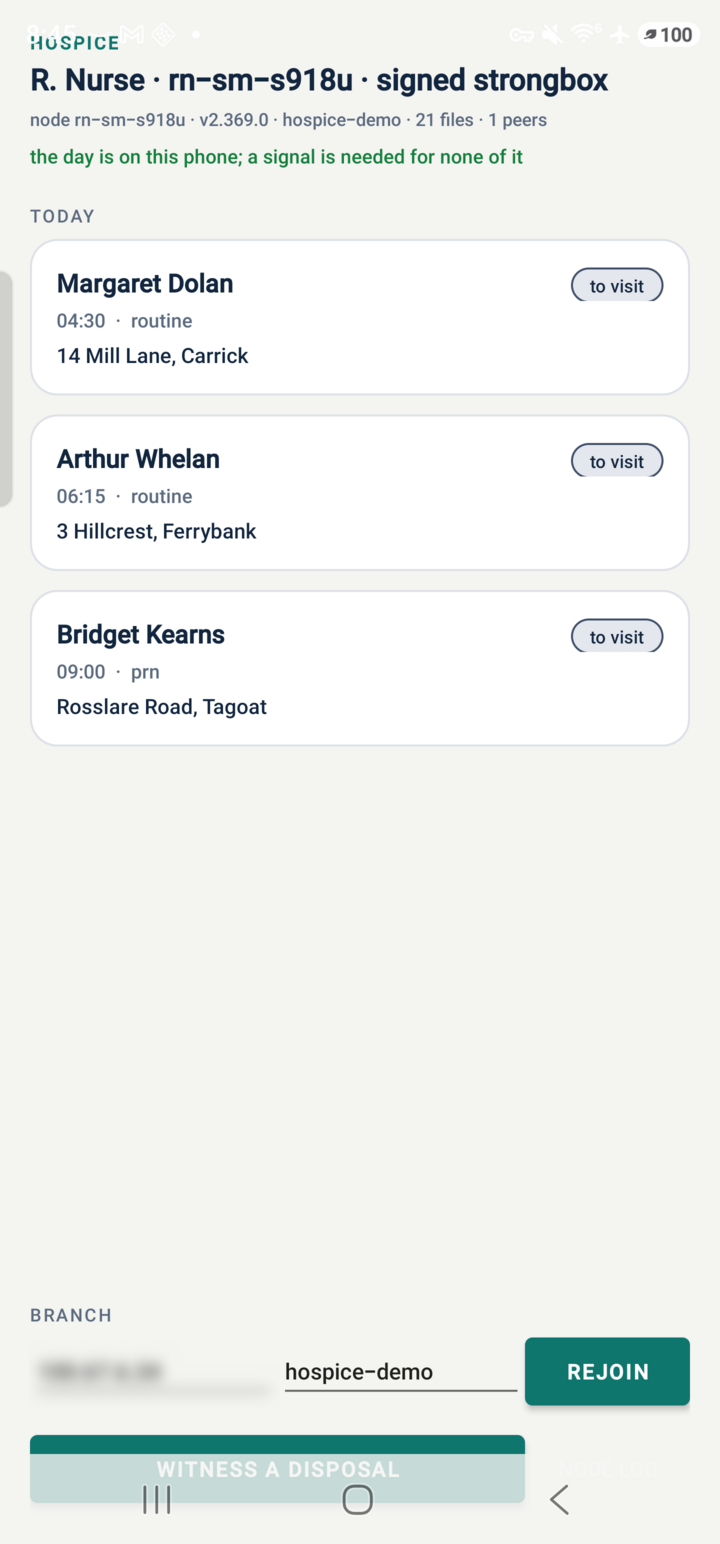
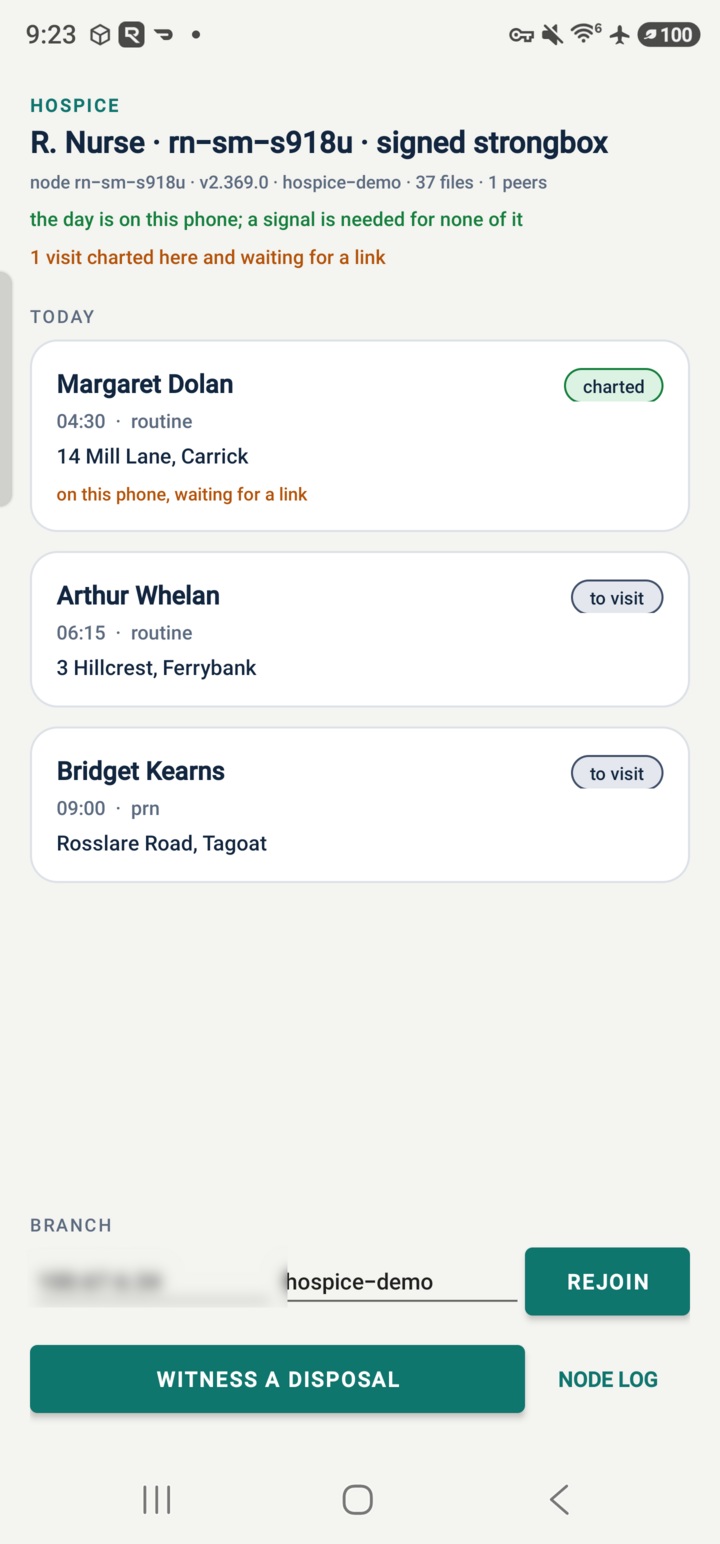
Recapture the README screenshots on the fixed layout
All five screenshots still showed the app drawing under the status bar at
the top and under the navigation bar at the foot, with the system's clock
light over a light background. They are recaptured from a fresh run on
the handset, showing each screen clear of the system bars, the close
action pinned below the scrolling area, and the two borderless buttons in
the accent colour.

The walkthrough now follows one visit end to end, and every number beside
it comes from that run: the claim strings, the disposal times, the
caregiver's byte count, the verifier output at 33 verified and 0 failed
across the three charted visits, the three tamper cases rerun on this
visit's arrival, and the engine's own log lines.

Claude-Session: https://claude.ai/code/session_01FKFe81Ykybm3wjuYYu9kWU

diff --git a/README.md b/README.md
@@ -34,11 +34,13 @@ blurred out of the screenshots.
 
 ### 1. The day is on the phone
 
-<img src="docs/screenshots/1-day.png" width="360" alt="The day list: three patients with times and addresses, the node status line, and a green line saying the day is on this phone">
+<img src="docs/screenshots/1-day.png" width="360" alt="The day list: three patients with times and addresses, the node status line, a green line saying the day is on this phone, and the branch row and buttons sitting clear of the navigation bar">
 
 The status line is the node inside the app: `rn-sm-s918u`, engine v2.369.0,
-library `hospice-demo`, 21 files, 1 peer. `signed strongbox` beside the
+library `hospice-demo`, 37 files, 1 peer. `signed strongbox` beside the
 nurse's name means the signing key went into the handset's secure element.
+Every screen sits clear of the phone's own status and navigation bars, and
+the system draws its clock and icons dark over this app's light background.
 
 Under it, in green, is the line the nurse actually cares about: **the day is
 on this phone; a signal is needed for none of it.** The app shows that only
@@ -48,13 +50,13 @@ list renders in the handset's zone.
 
 ### 2. Inside the house
 
-<img src="docs/screenshots/2-visit.png" width="360" alt="The visit screen: arrived at 20:45, the comfort kit medicines, buttons for a dose and a disposal, a line about a disposal awaiting a witness, four symptom sliders, a note field and a signature pad">
+<img src="docs/screenshots/2-visit.png" width="360" alt="The visit screen: arrived at 21:42, the comfort kit medicines, buttons for a dose and a disposal, a line about a disposal awaiting a witness, four symptom sliders, a note field, a signature pad, and the close button pinned at the foot">
 
 Arrive stamps the time and the place and signs both. The claim is the exact
 string that gets signed:
 
 ```
-unidatum-hospice-visit/v1|rn-sm-s918u|v-2026-09-13-1|arrived|-89.367429|30.307361|2026-09-14T01:45:37.172155Z
+unidatum-hospice-visit/v1|rn-sm-s918u|v-2026-09-13-3|arrived|-89.367442|30.307299|2026-09-14T02:42:46.229446Z
 ```
 
 **In the house** is the comfort kit, read from the patient's own record on
@@ -64,31 +66,35 @@ route and the time.
 The four sliders are the symptom scores a hospice chart carries — pain,
 breathing, nausea, agitation, each 0 to 10. They and the note are written to
 the visit as the nurse works, so a visit interrupted halfway keeps what was
-already charted.
+already charted, and a visit opened again shows back what it holds.
+
+**Chart and close the visit** stays pinned below the scrolling area. A
+signature pad has to own every touch that lands on it, so the action that
+ends the visit lives where a finger can always reach it.
 
 ### 3. A disposal, with a witness
 
-<img src="docs/screenshots/3-dispose.png" width="360" alt="The disposal dialog: Morphine sulfate, 12 mg of 20 mg, sharps container witnessed, and a line explaining the witness signs from their own handset">
+<img src="docs/screenshots/3-dispose.png" width="360" alt="The disposal dialog: Morphine sulfate, 2.5 mg of 10 mg, sharps container witnessed, and a line explaining the witness signs from their own handset">
 
 Wasting a controlled substance takes two clinicians. The nurse fills in the
 drug, the amount and the method, and signs their half:
 
 ```
-unidatum-hospice-waste/v1|nurse|rn-sm-s918u|v-2026-09-13-1-waste-555950685|Morphine sulfate|12 mg of 20 mg|sharps container, witnessed|2026-09-14T01:45:55.950685Z
+unidatum-hospice-waste/v1|nurse|rn-sm-s918u|v-2026-09-13-3-waste-317320876|Morphine sulfate|2.5 mg of 10 mg|sharps container, witnessed|2026-09-14T02:43:17.320876Z
 ```
 
 The record then reads **1 disposal is waiting for a witness's signature** —
 on the visit screen and in the day list — until the second signature lands.
 
 The witness signs on their own handset. In this run a second clinician,
-`rn-a-quinn`, opened Witness a disposal on another node, saw the open record
-and signed it with a key generated on that device. Three minutes later the
-phone's copy carried both halves:
+`rn-a-quinn`, worked from another node with `tools/witness.mjs`, saw the open
+record and signed it with a key generated on that machine. Under two minutes
+later the phone's copy carried both halves:
 
 | field | written by | at |
 |---|---|---|
-| `waste_claim`, `waste_signature`, `waste_public_key` | `rn-sm-s918u`, on the phone | 01:45:55 |
-| `witness_claim`, `witness_signature`, `witness_public_key` | `rn-a-quinn`, on their own node | 01:48:53 |
+| `waste_claim`, `waste_signature`, `waste_public_key` | `rn-sm-s918u`, on the phone | 02:43:17 |
+| `witness_claim`, `witness_signature`, `witness_public_key` | `rn-a-quinn`, on their own node | 02:44:55 |
 
 One document, two public keys, and neither writer overwrote the other. That
 is the per-field merge policy doing its job: the two clinicians touched
@@ -96,18 +102,18 @@ different fields of the same record, and the engine kept both.
 
 ### 4. The caregiver signs
 
-<img src="docs/screenshots/4-close.png" width="360" alt="The visit ready to close: symptom scores, the nurse's note, the caregiver's name and a finger-drawn signature">
+<img src="docs/screenshots/4-close.png" width="360" alt="The visit ready to close: the caregiver's name Eileen Kearns above a signature reading E K, drawn with a finger, and a clear button under the pad">
 
 The family caregiver signs on the glass with a finger. The pad exports a PNG
-and the visit carries it inline, 14 KB in this run, beside the caregiver's
+and the visit carries it inline, 12 KB in this run, beside the caregiver's
 name. Closing the visit writes a departure claim signed the same way as the
 arrival, and sets the visit to `charted`.
 
 ### 5. Charted, and waiting for a link
 
-<img src="docs/screenshots/5-charted.png" width="360" alt="The day list with Margaret Dolan charted, an amber line saying one visit is charted here and waiting for a link">
+<img src="docs/screenshots/5-charted.png" width="360" alt="The day list with all three visits charted, an amber line saying three visits are charted here and waiting for a link">
 
-Amber says what is held here and yet to travel: **1 visit charted here and
+Amber says what is held here and yet to travel: **3 visits charted here and
 waiting for a link.** With the branch reachable the line clears within a sync
 interval. With the phone in a valley it stays, and the nurse carries on to
 the next house.
@@ -119,23 +125,23 @@ checks the signature over it. The public key rides on the document, so a
 compliance reviewer runs this against any node that holds the collections and
 needs no key exchange with the handset.
 
-The lines for one visit, from the phone and again from the branch node. The run covered both visits the phone had charted:
+The lines for the visit above, from the phone and again from the branch node. The run covered all three visits the phone had charted:
 
 ```
 $ node tools/verify.mjs http://<branch>:7485
-VERIFIED  v-2026-09-13-2-arrived claim matches its own fields
-VERIFIED  v-2026-09-13-2-arrived signature over the claim
-VERIFIED  v-2026-09-13-2-left claim matches its own fields
-VERIFIED  v-2026-09-13-2-left signature over the claim
-VERIFIED  v-2026-09-13-2 clinician signature
-VERIFIED  v-2026-09-13-2 carries the caregiver's signature   Nuala Whelan, 17802 bytes
-VERIFIED  v-2026-09-13-2-waste-849616574 nurse claim matches the document
-VERIFIED  v-2026-09-13-2-waste-849616574 nurse signature
-VERIFIED  v-2026-09-13-2-waste-849616574 witness claim matches the document
-VERIFIED  v-2026-09-13-2-waste-849616574 witness signature
-VERIFIED  v-2026-09-13-2-waste-849616574 the two halves are two different keys   rn-sm-s918u and rn-a-quinn
+VERIFIED  v-2026-09-13-3-arrived claim matches its own fields
+VERIFIED  v-2026-09-13-3-arrived signature over the claim
+VERIFIED  v-2026-09-13-3-left claim matches its own fields
+VERIFIED  v-2026-09-13-3-left signature over the claim
+VERIFIED  v-2026-09-13-3 clinician signature
+VERIFIED  v-2026-09-13-3 carries the caregiver's signature   Eileen Kearns, 11661 bytes
+VERIFIED  v-2026-09-13-3-waste-317320876 nurse claim matches the document
+VERIFIED  v-2026-09-13-3-waste-317320876 nurse signature
+VERIFIED  v-2026-09-13-3-waste-317320876 witness claim matches the document
+VERIFIED  v-2026-09-13-3-waste-317320876 witness signature
+VERIFIED  v-2026-09-13-3-waste-317320876 the two halves are two different keys   rn-sm-s918u and rn-a-quinn
 
-22 verified, 0 failed
+33 verified, 0 failed
 ```
 
 Rebuilding the claim from the document is what makes signing worth doing. A
@@ -145,7 +151,7 @@ branch node, each caught, and each then restored:
 
 | what another writer did to the record | what the verifier said |
 |---|---|
-| moved the arrival 2 km | claim matches fails; the document reads `-89.350000\|30.320000` where the signed claim reads `-89.367429\|30.307361` |
+| moved the arrival 2 km | claim matches fails; the document reads `-89.350000\|30.320000` where the signed claim reads `-89.367442\|30.307299` |
 | replaced the arrival signature with the departure's, a real signature from the right key | signature over the claim fails |
 | re-pointed the disposal at a different witness | witness claim matches fails; the signed claim still names `rn-a-quinn` |
 
@@ -157,24 +163,27 @@ holds the key can sign one.
 The engine's own output during the run, with the branch address masked:
 
 ```
-replicate patients: complete, 1 member(s) fetched — now following
-replicate visits: complete, 1 member(s) fetched — now following
-replicate medications: complete, 1 member(s) fetched — now following
-replicate visit_verification: complete, 1 member(s) fetched — now following
 sync <branch>:47810: sent 2, got 0
 go-serve: seeding visit_verification.collection to <branch>
-go-serve: seeded 2379 byte(s) of visit_verification.collection
-go-serve: merged 1 op(s), rejected 0, 1 received, in 10ms
-follow medications: 1 new member(s) fetched
+go-serve: seeded 20367 byte(s) of visit_verification.collection
+go-serve: seeding visits.collection to <branch>
+go-serve: seeded 16732 byte(s) of visits.collection
+sync <branch>:47810: sent 1, got 0
+go-serve: seeding medications.collection to <branch>
+go-serve: seeded 16186 byte(s) of medications.collection
 go-serve: seeding visits.collection.delta.parquet to <branch>
-go-serve: seeded 20636 byte(s) of visits.collection.delta.parquet
+go-serve: seeded 18030 byte(s) of visits.collection.delta.parquet
+follow medications: 1 new member(s) fetched
+follow medications: warmed 12 member(s), 39.2 KB
 ```
 
-Reading down: the phone replicated the four collections it needs, pushed its
-own commits to the branch, and served the members those commits created when
-the branch came for them. `merged 1 op(s), rejected 0` is the witness's
-signature arriving from the other node. The 20 KB member is the visit
-carrying the caregiver's PNG.
+Reading down: the arrival goes out in one sync and the branch comes straight
+back for the members it created. The disposal follows thirty seconds later on
+the medications collection, then the close, whose 18 KB member is the visit
+carrying the caregiver's PNG. The phone is serving the library as well as
+drawing from it. The last two lines run the other way: the witness's
+signature arrives from the other node, and the phone fetches the member it
+created.
 
 ## The nurse's calls (`Nurse.kt`)
 
